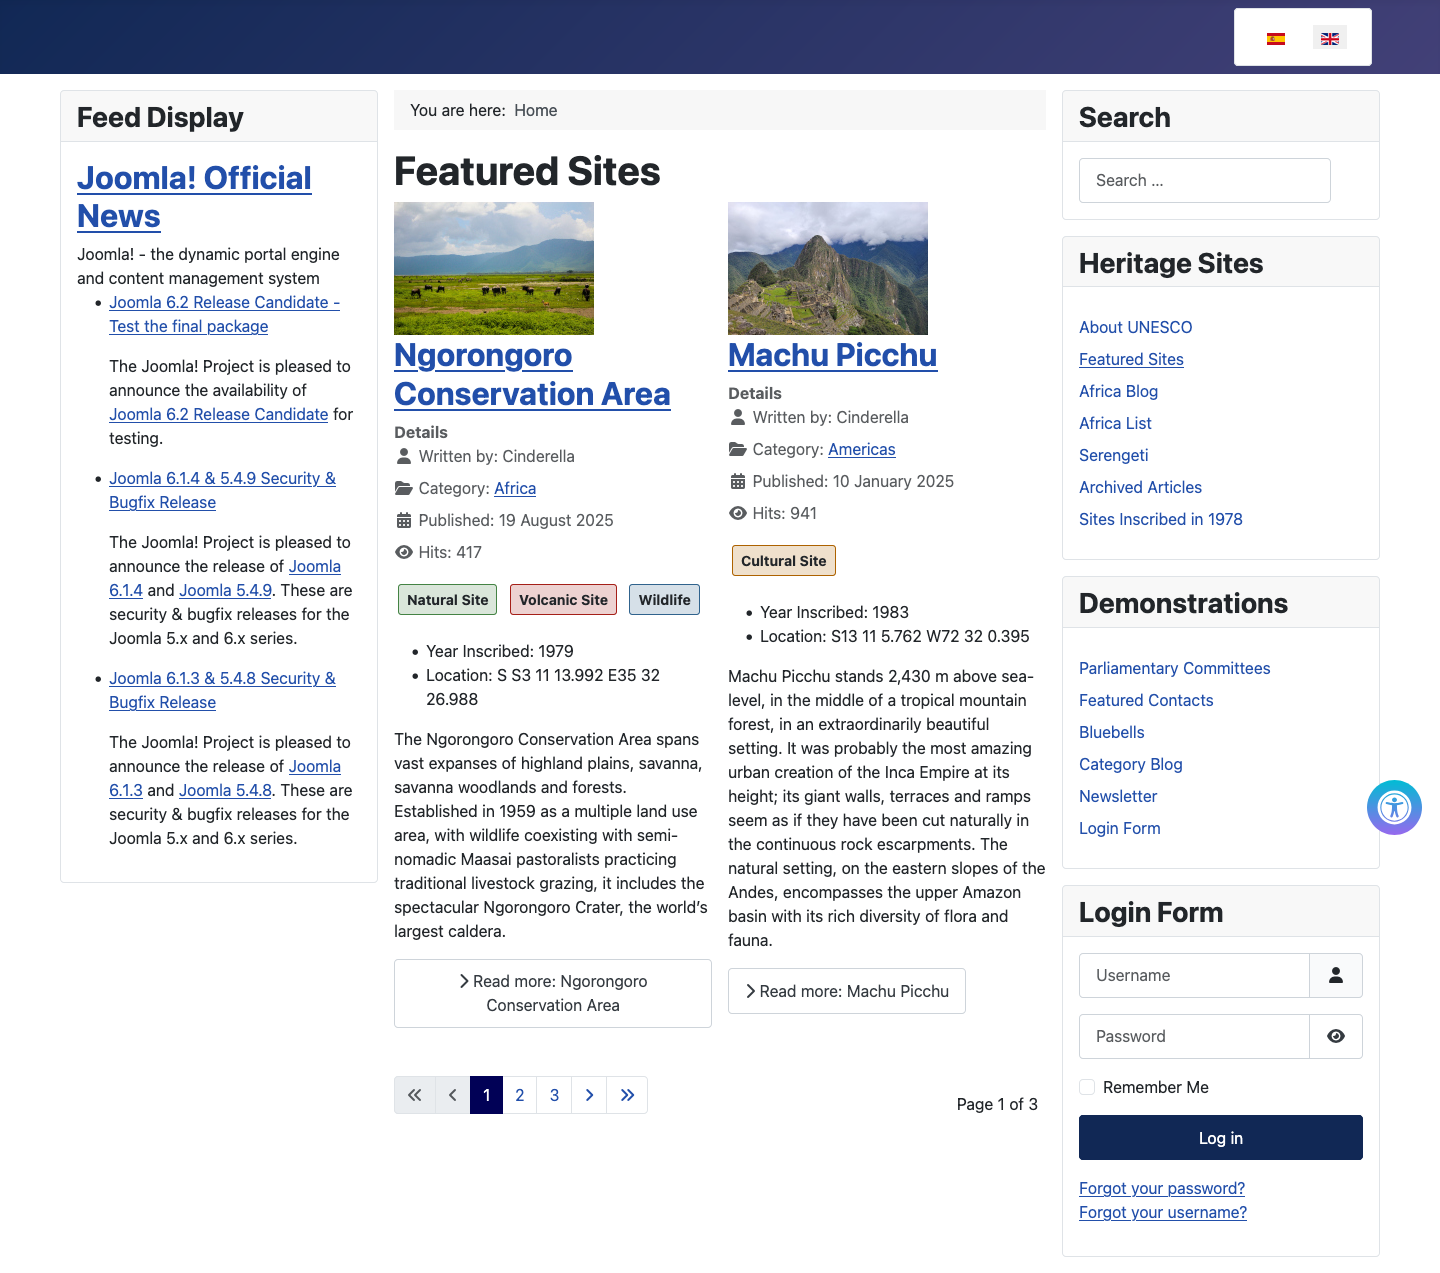
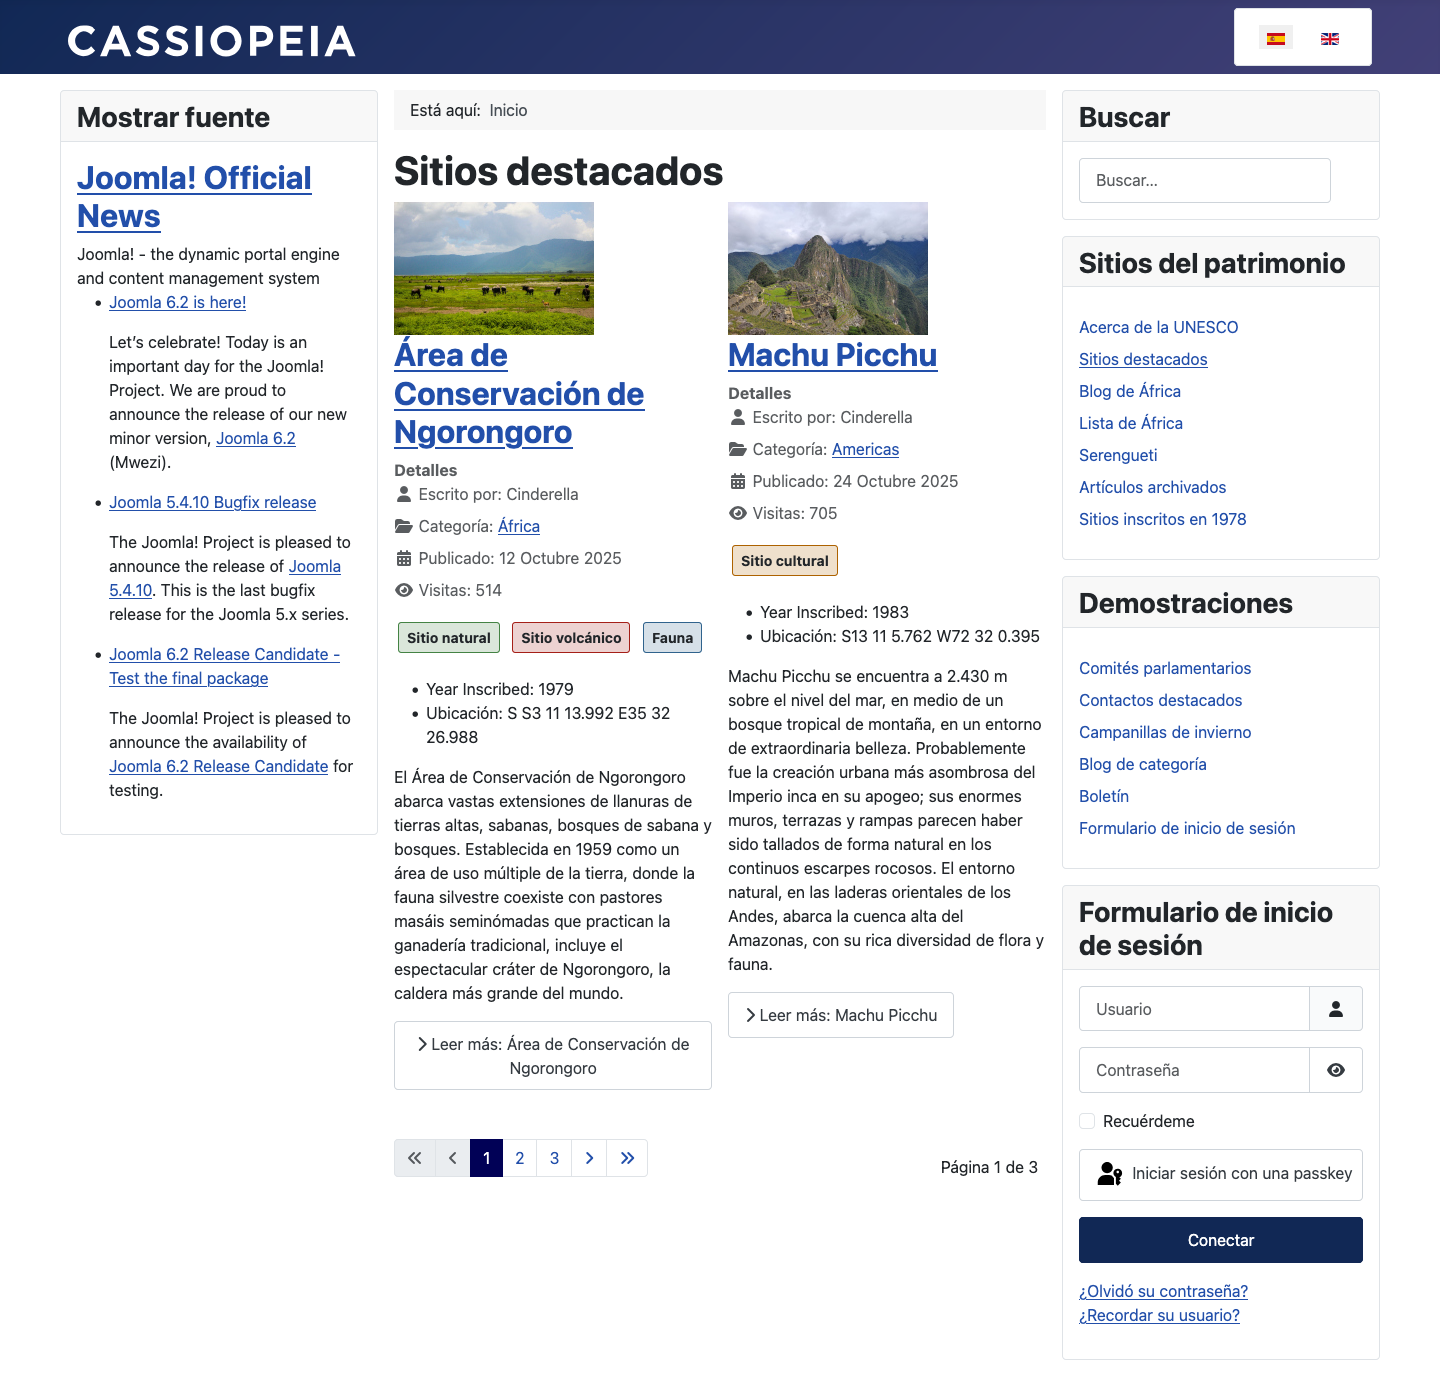
Updated contacts and news feeds.

diff --git a/articles/news-feeds/news-display.md b/articles/news-feeds/news-display.md
@@ -11,11 +11,11 @@
 
 Hay un módulo *Feed Display* central disponible para mostrar noticias de otros sitios. La siguiente captura de pantalla muestra el formulario de entrada de datos con la URL del feed de noticias de Anuncios de Joomla. Observe que el Contador de Palabras está establecido en 100. De lo contrario, la longitud de un anuncio podría ser excesiva para un módulo de barra lateral.
 
-![Entrada de datos del módulo de visualización de feeds](../../../en/images/news-feeds/news-display/01-news-joomla-news-form.png)
+![Entrada de datos del módulo de visualización de feeds](../../../es/images/news-feeds/news-display/01-news-joomla-news-form.png)
 
 El resultado puede ser poco atractivo, pero se puede mejorar con algunos estilos personalizados en user.css:
 
-![Entrada de datos del módulo de visualización de feeds](../../../en/images/news-feeds/news-display/02-news-joomla-news-display.png)
+![Entrada de datos del módulo de visualización de feeds](../../../es/images/news-feeds/news-display/02-news-joomla-news-display.png)
 
 ## Páginas de Visualización de Fuentes
 
@@ -29,7 +29,7 @@ Como alternativa a la visualización de noticias en un módulo, puedes crear un 
   - La pestaña **Opciones** tiene elementos para controlar la *Visualización* de la fuente.
 * **Guardar & Cerrar**
 
-![Entrada de datos del componente de fuente de noticias](../../../en/images/news-feeds/news-display/03-news-feed-data-entry.png)
+![Entrada de datos del componente de fuente de noticias](../../../es/images/news-feeds/news-display/03-news-feed-data-entry.png)
 
 Crea un elemento de menú comenzando desde el menú del Administrador:
 
@@ -39,7 +39,7 @@ Crea un elemento de menú comenzando desde el menú del Administrador:
 * Completa el resto del formulario según sea apropiado.
 * **Guardar & Cerrar**
 
-![Entrada de datos del elemento de menú de fuente de noticias](../../../en/images/news-feeds/news-display/04-news-feed-menu-form.png)
+![Entrada de datos del elemento de menú de fuente de noticias](../../../es/images/news-feeds/news-display/04-news-feed-menu-form.png)
 
 Pruébalo: ve al menú del Sitio y selecciona el elemento de menú de la Fuente.
 
@@ -61,13 +61,13 @@ ul.com-newsfeeds-newsfeed__items > li {
 ```
 Que aparecerá así:
 
-![Visualización personalizada de la fuente de noticias](../../../en/images/news-feeds/news-display/06-news-feed-custom-display.png)
+![Visualización personalizada de la fuente de noticias](../../../es/images/news-feeds/news-display/06-news-feed-custom-display.png)
 
 ## Listar fuentes de noticias en una categoría
 
 La página *Fuentes de noticias RSS de Joomla!* enumera ocho fuentes de noticias separadas. Podrías crear una fuente para algunas o todas ellas y asignarlas a una categoría, digamos *Noticias de Joomla*. Luego, puedes crear un elemento de menú con el *Tipo de elemento de menú* configurado en *Listar fuentes de noticias en una categoría* y la categoría configurada en *Noticias de Joomla*.
 
-![Formulario de menú de fuente de noticias por categoría](../../../en/images/news-feeds/news-display/07-news-feed-menu-category-form.png)
+![Formulario de menú de fuente de noticias por categoría](../../../es/images/news-feeds/news-display/07-news-feed-menu-category-form.png)
 
 ¡Inténtalo para ver el resultado!
 *Traducido por openai.com*

diff --git a/articles/news-feeds/news-feeds.md b/articles/news-feeds/news-feeds.md
@@ -39,13 +39,13 @@ La configuración global se puede anular en un elemento de menú de blog de cate
 
 Hay un módulo central que puedes colocar en páginas de Blog Destacadas o de Categoría para proporcionar un enlace de Sindicación. Rellena los campos en la pestaña del Módulo. La mayoría tienen valores predeterminados adecuados. Si el campo de Etiqueta se deja en blanco, la etiqueta predeterminada en inglés es *Feed Entries*. En la pestaña *Asignación de Menú*, selecciona **En todas las páginas**. El módulo solo aparecerá en páginas de Blog Destacadas y de Categoría.
 
-![Entrada de datos de fuentes de sindicación](../../../en/images/news-feeds/news-feeds/02-news-syndication-feeds-form.png)
+![Entrada de datos de fuentes de sindicación](../../../es/images/news-feeds/news-feeds/02-news-syndication-feeds-form.png)
 
 Recuerda asignar el módulo a una *Posición* y marcarlo como *Publicado*.
 
 En la vista de la página del sitio, el módulo muestra un enlace. No está destinado a ser clicado a menos que tengas un lector de noticias local configurado. El enlace necesita ser copiado para su uso en un lector de noticias en otro sitio o aplicación de lector de noticias.
 
-![Visualización de fuentes de sindicación](../../../en/images/news-feeds/news-feeds/03-news-syndication-feeds-display.png)
+![Visualización de fuentes de sindicación](../../../es/images/news-feeds/news-feeds/03-news-syndication-feeds-display.png)
 
 Ten en cuenta que el enlace es para los elementos de esa página. Así que si tu sitio tiene varias páginas de blog de categoría, tendrás varias fuentes RSS diferentes.
 
